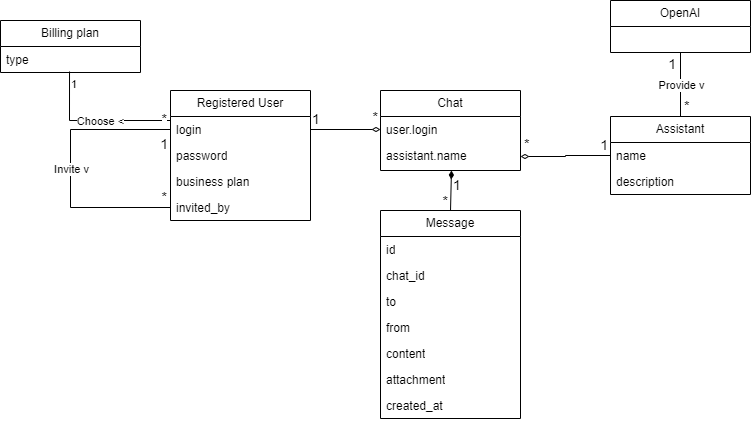
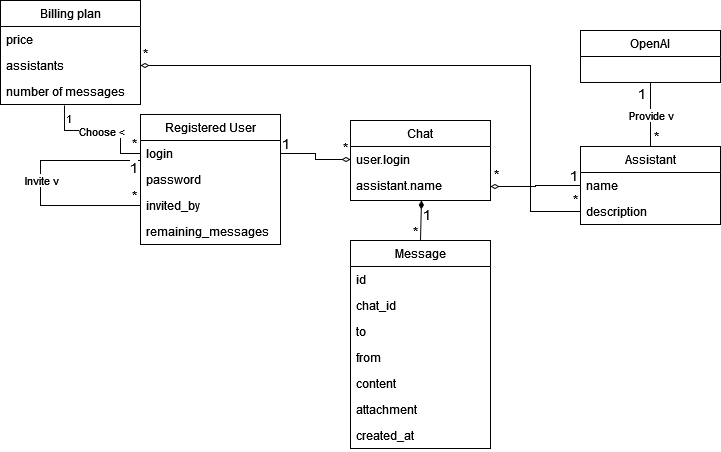
Update according to remarks

diff --git a/docs/business_requirements.md b/docs/business_requirements.md
@@ -6,6 +6,8 @@ We provide a user-friendly UI to an AI-aided assistance
 
 * OpenAI
   * The source of assistants
+* Payment service
+  * External service to process payment
 * Assistant
   * Provided assistant by OpenAI
 * Client
@@ -17,6 +19,9 @@ We provide a user-friendly UI to an AI-aided assistance
 
 * OpenAI
   * Provide an assistant
+* Payment service
+  * Process payment
+  * Confirm payment
 * Assistant
   * Write a response based on a request
 * Client

diff --git a/docs/ui.md b/docs/ui.md
@@ -1,5 +1,13 @@
 # UI
 
+## Register
+
+![sign_up](./figs/ui_registration.png)
+
+## Choose billing plan
+
+![choose_billing_plan](./figs/ui_choose_billing_plan.png)
+
 ## Choose chat
 
 ![choose_chat](./figs/choose_chat.png)
@@ -8,6 +16,3 @@
 
 ![chatting](./figs/chatting.png)
 
-## Invite friends
-
-![invite_friends](./figs/refferal.png)
